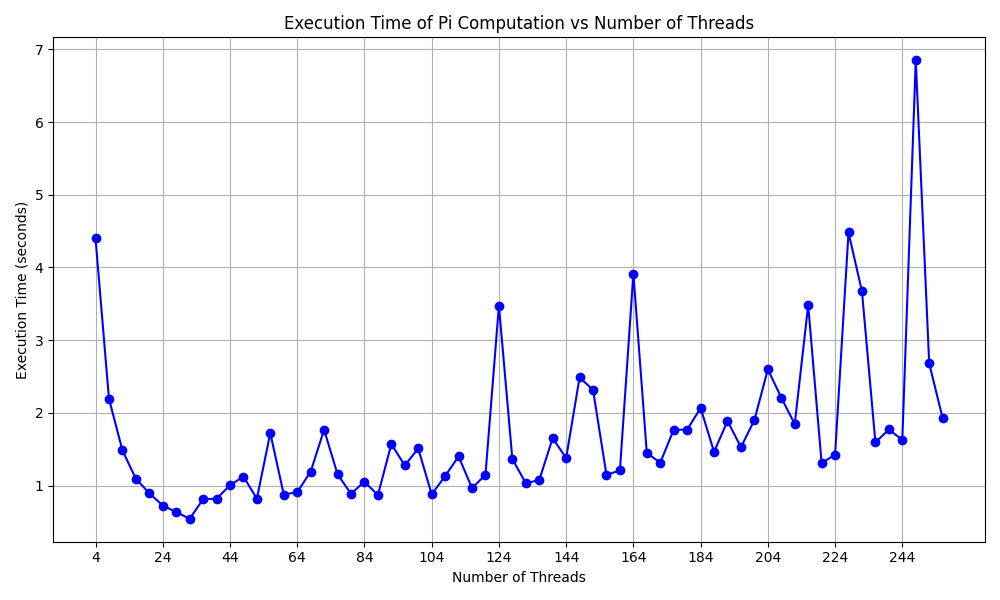
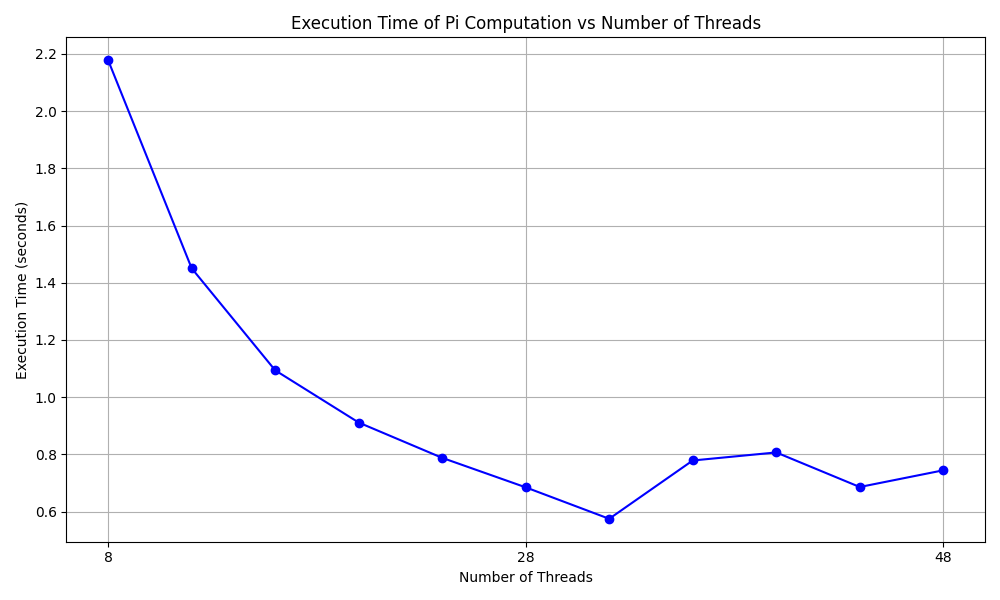
Added graphs and rerun experiments in rome partition

diff --git a/Assignment 2/Task 1/graph/plot_graph.py b/Assignment 2/Task 1/graph/plot_graph.py
@@ -1,71 +1,18 @@
 import matplotlib.pyplot as plt
 
-threads = [4,8,12,16,20,24,28,32,36,40,44,48,52,56,60,64,68,72,76,80,84,88,92,96,100,104,108,112,116,120,124,128,132,136,140,144,148,152,156,160,164,168,172,176,180,184,188,192,196,200,204,208,212,216,220,224,228,232,236,240,244,248,252,256]
+threads = [8,12,16,20,24,28,32,36,40,44,48]
 times = [
-    4.401381,
-    2.195105,
-    1.486943,
-    1.094913,
-    0.896487,
-    0.726554,
-    0.638693,
-    0.544433,
-    0.813295,
-    0.820949,
-    1.005010,
-    1.125101,
-    0.821422,
-    1.722580,
-    0.878321,
-    0.910182,
-    1.192308,
-    1.768895,
-    1.157382,
-    0.888179,
-    1.055259,
-    0.868649,
-    1.571599,
-    1.278799,
-    1.511296,
-    0.880189,
-    1.132121,
-    1.402623,
-    0.966250,
-    1.148749,
-    3.476143,
-    1.366683,
-    1.033702,
-    1.076740,
-    1.653242,
-    1.379026,
-    2.487939,
-    2.315856,
-    1.148305,
-    1.209875,
-    3.916071,
-    1.447530,
-    1.317107,
-    1.768699,
-    1.769624,
-    2.067777,
-    1.463982,
-    1.888508,
-    1.530433,
-    1.900974,
-    2.599638,
-    2.210243,
-    1.846338,
-    3.481162,
-    1.310077,
-    1.425773,
-    4.481463,
-    3.670873,
-    1.593790,
-    1.772977,
-    1.629327,
-    6.849148,
-    2.681047,
-    1.928373
+    2.178053,
+    1.450617,
+    1.093899,
+    0.911311,
+    0.787798,
+    0.684702,
+    0.574708,
+    0.778560,
+    0.806757,
+    0.685874,
+    0.744235  
     ]
 
 plt.figure(figsize=(10, 6))
@@ -78,5 +25,5 @@ plt.xticks(threads)
 plt.xticks(threads[::5]) 
 plt.tight_layout()
 
-plt.savefig('Assignment 2/Task 1/graph/graph_task_1.png')
+plt.savefig('graph_task_1.png')
 plt.show()

diff --git a/Assignment 2/Task 2/graph/plot_graph.py b/Assignment 2/Task 2/graph/plot_graph.py
@@ -1,7 +1,14 @@
 import matplotlib.pyplot as plt
 
-iterations = [31250000, 62500000, 125000000, 250000000, 500000000, 1000000000, 2000000000]
-times = [0.052694, 0.096979, 0.203025, 0.400047, 0.744852, 1.060696, 1.393582]
+iterations = [31250000,62500000,125000000,250000000,500000000,1000000000,2000000000]
+times = [0.02228,
+        0.042992,
+        0.085207,
+        0.179741,
+        0.337964,
+        0.671338,
+        1.403166
+]
 
 plt.figure(figsize=(10, 6))
 plt.plot(iterations, times, marker='o', linestyle='-', color='g')
@@ -9,8 +16,8 @@ plt.title('Execution Time of Pi Computation vs Number of Iterations')
 plt.xlabel('Number of Iterations')
 plt.ylabel('Execution Time (seconds)')
 plt.grid(True)
-plt.xscale('log')
+#plt.xscale('log')
 plt.tight_layout()
 
-plt.savefig('Assignment 2/Task 2/graph/graph_task_2.png')
+plt.savefig('graph_task_2.png')
 plt.show()
